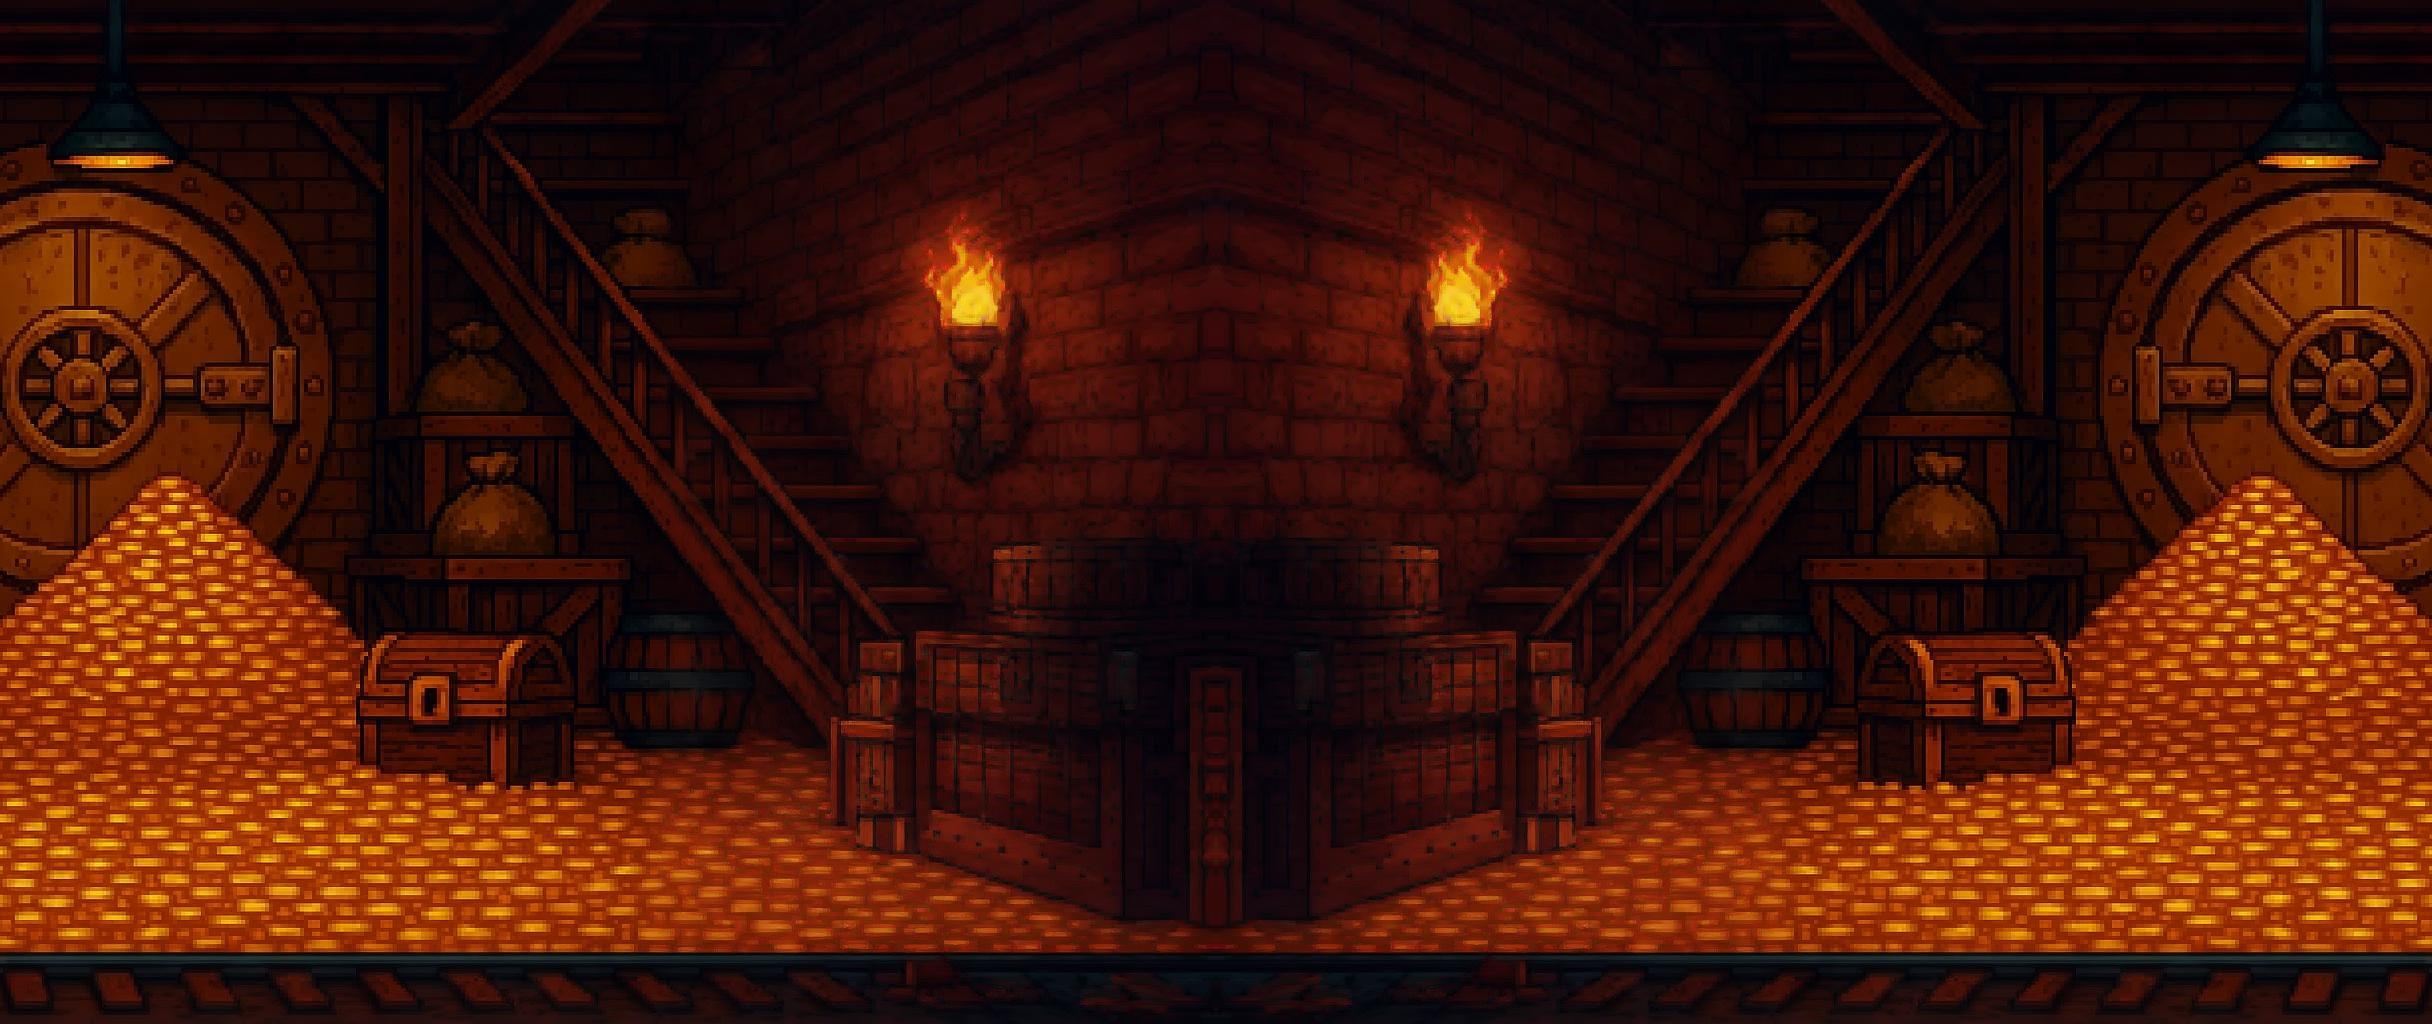
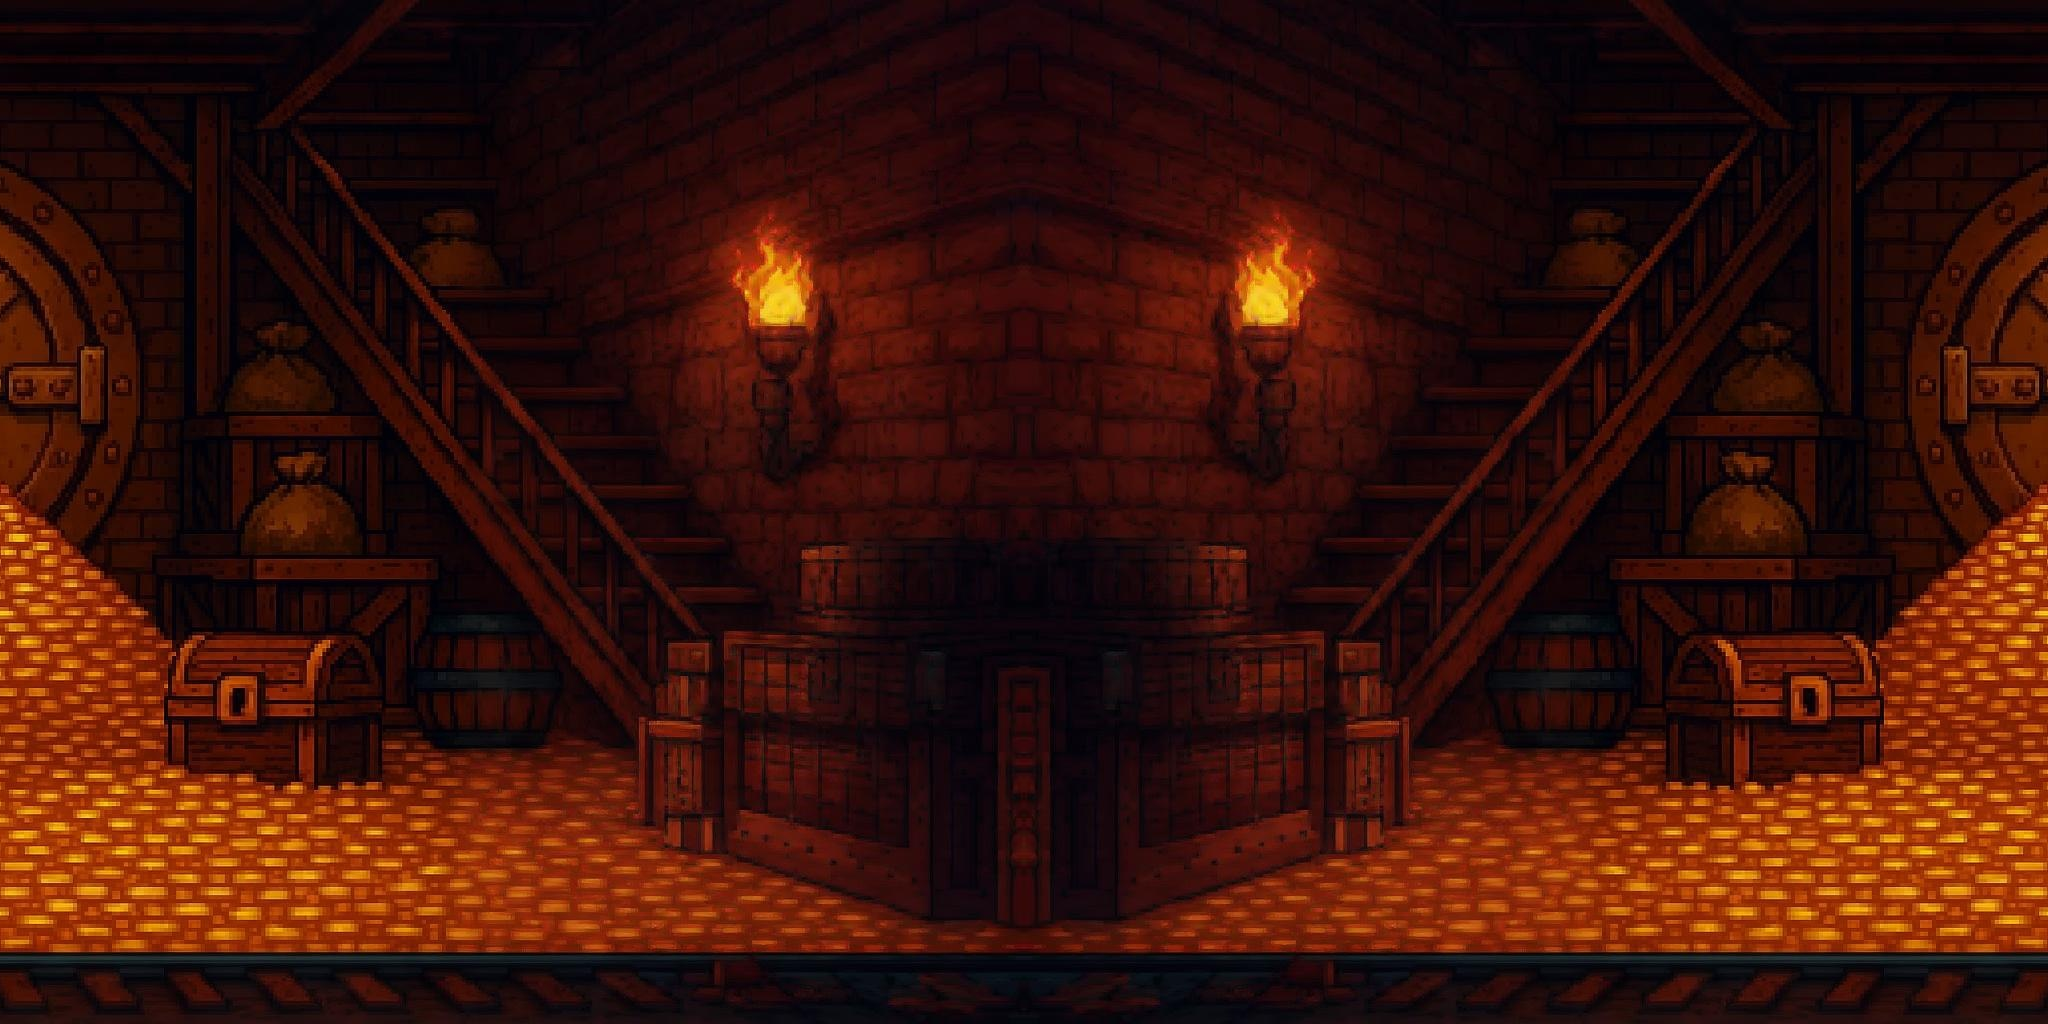
hi me again

diff --git a/images/renamer.py b/images/renamer.py
@@ -5,9 +5,10 @@ from PIL import Image
 base_path = "."
 
 # Alleen deze mappen verwerken
-allowed_folders = {"fabriek-bg", "industrie-bg", "pakhuis-bg"}
+allowed_folders = {"fabriek-bg","industrie-bg","pakhuis-bg"}  # <-- pas aan
 
-image_extensions = {".jpg"}
+TARGET_WIDTH = 2048
+image_extensions = {".png"}
 
 for folder in os.listdir(base_path):
     folder_path = os.path.join(base_path, folder)
@@ -16,9 +17,6 @@ for folder in os.listdir(base_path):
     if not os.path.isdir(folder_path) or folder not in allowed_folders:
         continue
 
-    # Prefix = eerste deel van de mapnaam vóór het eerste '-'
-    prefix = folder.split("-")[0]
-
     for filename in os.listdir(folder_path):
         name, ext = os.path.splitext(filename)
         ext = ext.lower()
@@ -26,18 +24,25 @@ for folder in os.listdir(base_path):
         if ext not in image_extensions:
             continue
 
-        old_path = os.path.join(folder_path, filename)
-        new_name = f"{prefix}-img-{name}.png"
-        new_path = os.path.join(folder_path, new_name)
+        img_path = os.path.join(folder_path, filename)
 
-        # Converteren naar PNG
-        with Image.open(old_path) as img:
-            img.save(new_path, "PNG")
+        with Image.open(img_path) as img:
+            width, height = img.size
 
-        # Oude bestand verwijderen als het geen PNG was
-        if ext != ".png":
-            os.remove(old_path)
+            # Als de afbeelding smaller is dan 2048, sla over
+            if width <= TARGET_WIDTH:
+                print(f"Overgeslagen (te smal): {folder}/{filename}")
+                continue
 
-        print(f"{filename} → {new_name}")
+            # Bereken crop: middelste 2048 pixels
+            left = (width - TARGET_WIDTH) // 2
+            right = left + TARGET_WIDTH
+
+            cropped = img.crop((left, 0, right, height))
+
+            # Overschrijf het originele bestand
+            cropped.save(img_path)
+
+            print(f"Bijgesneden: {folder}/{filename}")
 
 print("Klaar!")
